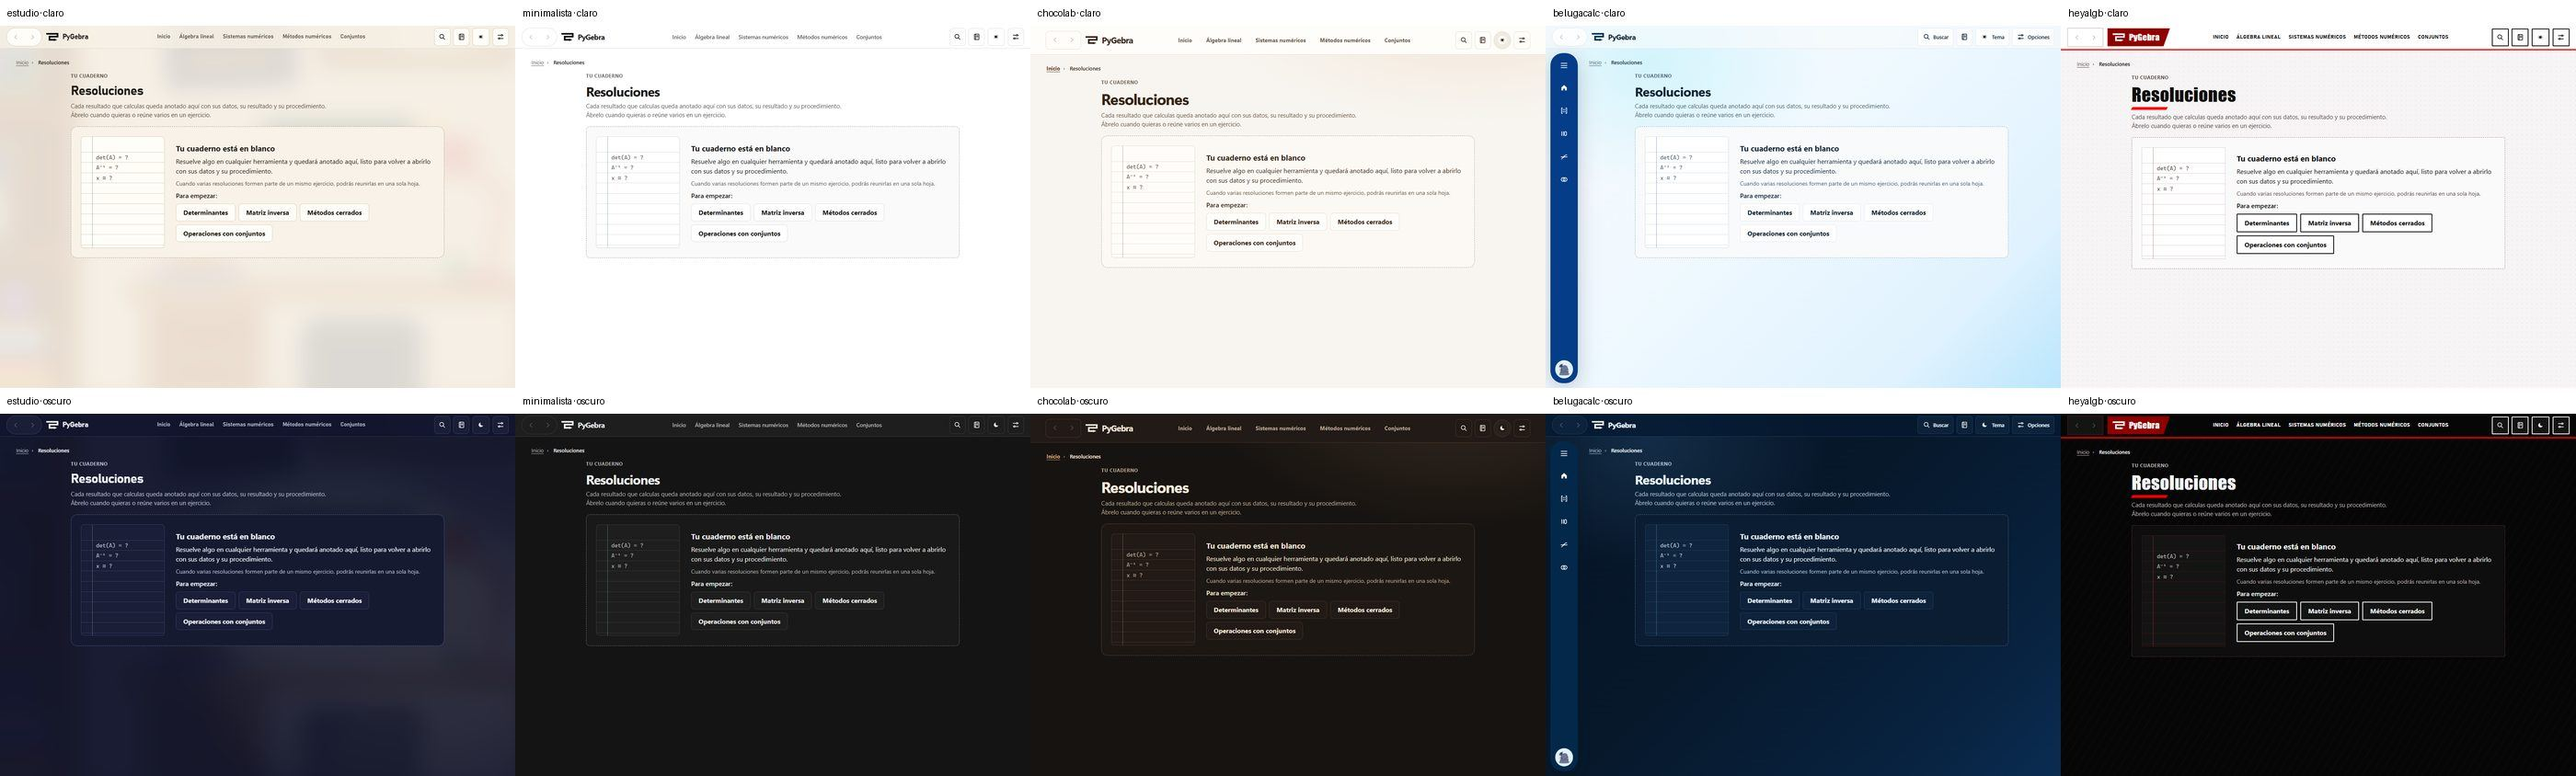
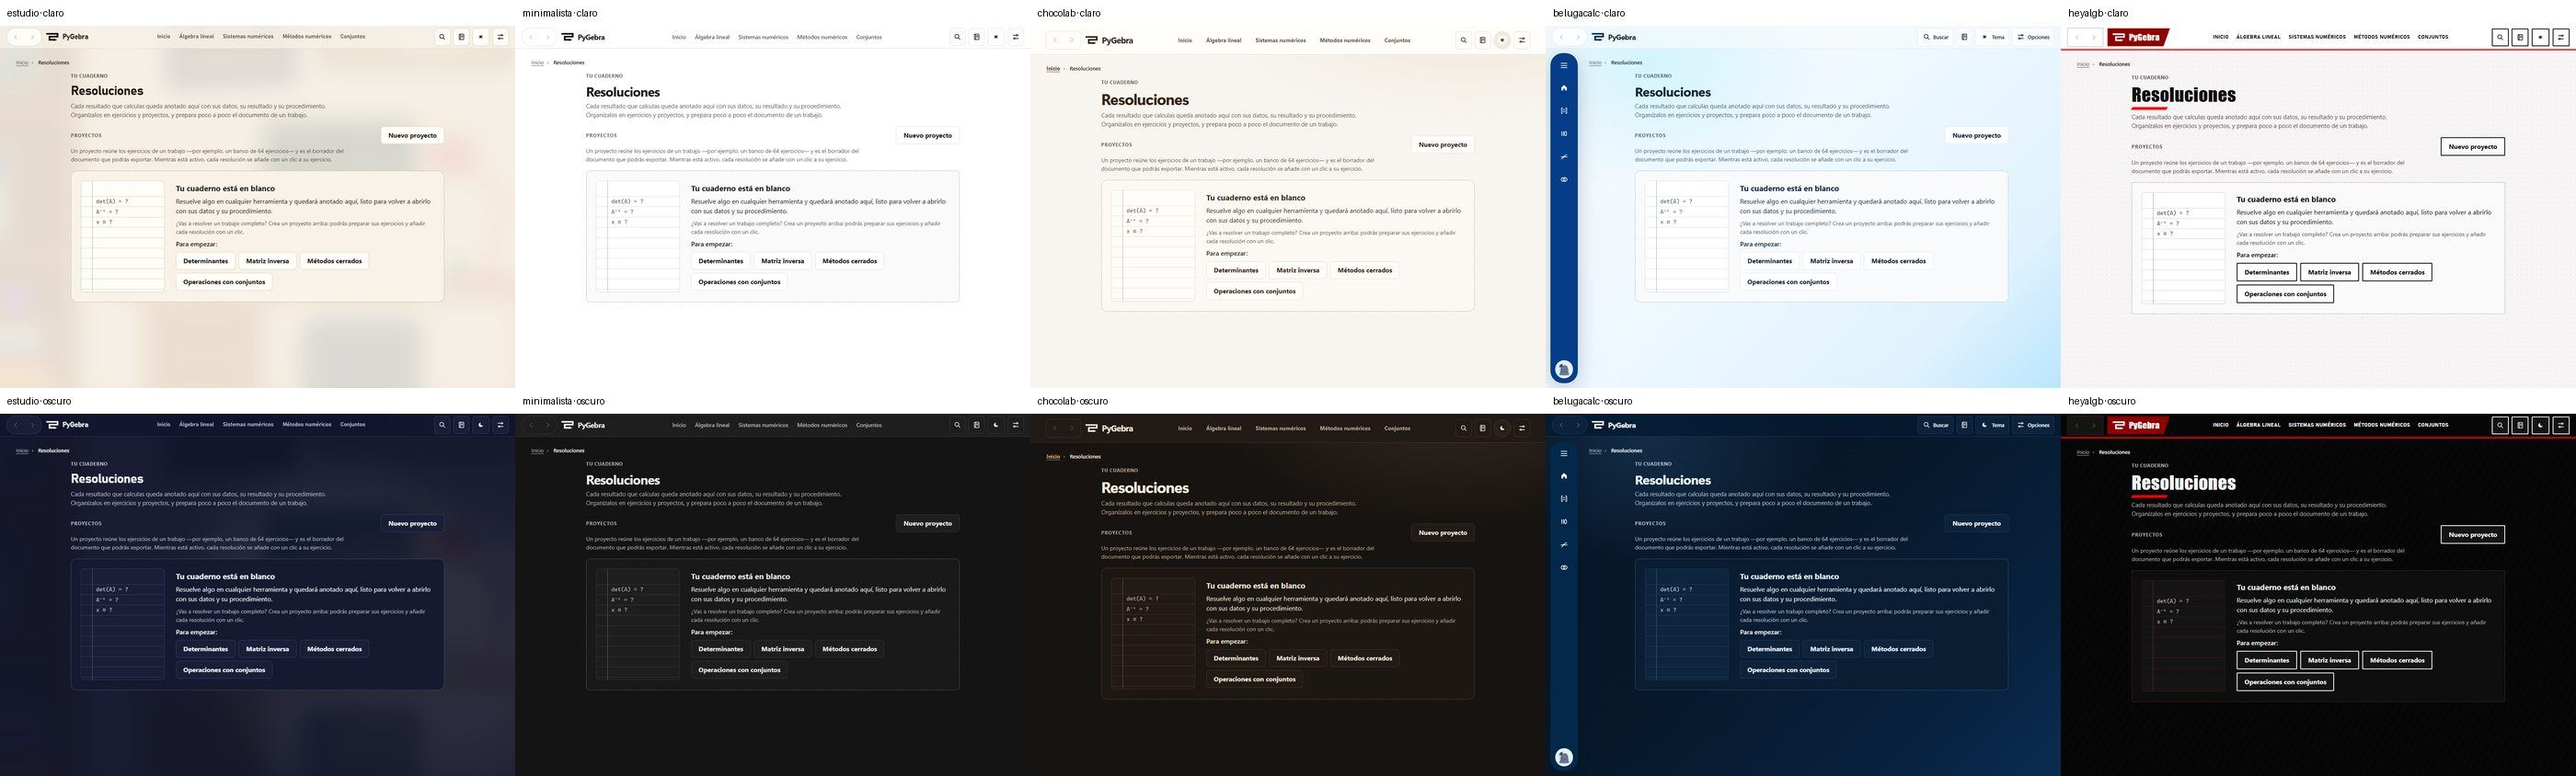
docs: documentar proyectos, migración y borrador del documento

diff --git a/docs/resoluciones.md b/docs/resoluciones.md
@@ -3,12 +3,12 @@
 [Índice de documentación](README.md) · [Arquitectura](arquitectura.md)
 
 Cada resolución válida de la interfaz visual se anota sola en un cuaderno local. Desde
-**Resoluciones** (cabecera) se consulta, se busca por nombre, resultado o ejercicio,
-se filtra por herramienta y fecha, se renombra, se elimina y se reúne en ejercicios.
-Abrir una resolución lleva a su herramienta con los datos, el resultado y el
-procedimiento originales, sin volver a calcular.
+**Resoluciones** (cabecera) se consulta, se busca por nombre, resultado, ejercicio o
+proyecto, se filtra por herramienta y fecha, se renombra, se elimina y se organiza en
+**Proyecto → Ejercicio → Resoluciones**. Abrir una resolución lleva a su herramienta con
+los datos, el resultado y el procedimiento originales, sin volver a calcular.
 
-![El cuaderno en Estudio, claro](capturas/resoluciones/cuaderno-estudio.jpg)
+![Un proyecto de 64 ejercicios en Estudio](capturas/resoluciones/proyecto-estudio.jpg)
 
 ## Uso
 
@@ -16,12 +16,13 @@ procedimiento originales, sin volver a calcular.
   resolución («Matriz inversa · 2×2») y permite añadirla a un ejercicio.
 - **Sin duplicados.** Recargar, volver atrás o calcular lo mismo otra vez no crea una
   segunda resolución: el aviso dice «Ya estaba en tu cuaderno».
-- **Ejercicios.** Un ejercicio es una hoja con pasos numerados (por ejemplo, un
-  determinante, la inversa y su comprobación). Cada resolución conserva su resultado.
-  Las que no pertenecen a ninguno quedan en **Sueltas**, agrupadas por día.
-- **Selección.** Las casillas, «marcar el ejercicio o el día» y la barra *Reunir en ·
-  Sacar del ejercicio · Eliminar…* trabajan sobre la misma selección, que usará la
-  exportación a PDF. Eliminar siempre pide confirmación.
+- **Ejercicios.** Un ejercicio reúne resoluciones (por ejemplo, un determinante, la
+  inversa y su comprobación); cada una conserva su resultado. Puede tener número, título
+  y enunciado, pertenecer a un proyecto o ser independiente. Las resoluciones que no
+  pertenecen a ninguno quedan en **Sueltas**, agrupadas por día.
+- **Selección.** Las casillas, «marcar el ejercicio o el día» y la barra *Llevar a ·
+  Sacar del ejercicio · Eliminar…* trabajan sobre la misma selección. Eliminar siempre
+  pide confirmación.
 - **Reabrir.** Si cambias los datos de una resolución reabierta y calculas, se anota
   una resolución nueva; la original no se sobrescribe.
 - Todo funciona sin JavaScript; `resoluciones.js` añade el recuento, marcar un grupo
@@ -32,6 +33,39 @@ procedimiento originales, sin volver a calcular.
   ya hacía HeyAlgb, cuyas pestañas se compactan en ese tramo. Con fuentes más anchas que
   Segoe UI (Linux, zoom) las áreas o la marca quedaban debajo de los botones; el runner
   `resoluciones` lo comprueba de 481 a 1600 px en los cinco estilos.
+
+## Proyectos
+
+Un proyecto es un trabajo que se construye poco a poco (por ejemplo, un banco de 64
+ejercicios) y el borrador persistente de su documento.
+
+- **Crear y preparar.** *Nuevo proyecto* (nombre y ejercicios previstos) lo crea y lo deja
+  activo. *Preparar varios* crea ejercicios numerados de una vez (del 1 al 64, sin repetir
+  números) y *Nuevo ejercicio* uno con número, título, enunciado y sección. Los ejercicios
+  pueden existir antes de tener resoluciones.
+- **Proyecto activo.** Junto a las migas de cualquier página, un indicador discreto dice
+  en qué proyecto y ejercicio se trabaja; desde él se cambia de ejercicio, se crea uno
+  nuevo o se deja el proyecto. Tras calcular, el aviso ofrece **Añadir a Ej. N** (un clic)
+  u **Otro ejercicio**. *Trabajar aquí* (icono de diana) activa un ejercicio desde el
+  proyecto. El estado activo se guarda en el cuaderno, no en el navegador: sobrevive al
+  cierre de la app.
+- **Orden.** Flechas para subir o bajar ejercicios, secciones y resoluciones; *Ordenar por
+  número* aplica un orden natural (2 < 10, 3a < 3b, 4.1 < 4.10). Las secciones son
+  opcionales y agrupan ejercicios dentro del proyecto.
+- **Mover y quitar sin perder nada.** *Editar → Ubicación* lleva un ejercicio a otra
+  sección, a otro proyecto o fuera de todos (independiente). Quitar una sección deja sus
+  ejercicios en el proyecto; eliminar un proyecto deja sus ejercicios como independientes,
+  con sus resoluciones; *Desagrupar* deja las resoluciones sueltas.
+- **Borrador del documento.** Cada sección, ejercicio y resolución tiene su interruptor
+  *En el documento*: lo habitual (dentro) es un icono discreto y lo excepcional (fuera) se
+  lee entero. El panel *Borrador del documento* cuenta lo que entraría y muestra el
+  índice. Excluir nunca borra.
+- **Orientarse en proyectos largos.** La barra de progreso cuenta los ejercicios con
+  resolución sobre el objetivo; el **mapa** dibuja una casilla por ejercicio en el orden
+  del documento (rellena = con resolución, punteada = por preparar, atenuada = fuera del
+  documento) y enlaza a cada uno. Las vistas *Todos · Pendientes · Con resolución*
+  filtran la lista. Cada sección es una sola hoja con un renglón por ejercicio y su
+  respuesta principal; las resoluciones se despliegan (abiertas en el ejercicio activo).
 
 ## Dónde se guarda
 
@@ -60,13 +94,34 @@ GET herramienta?resolucion=<id>
 | Módulo (`frontend/web/calculadora/resoluciones/`) | Responsabilidad |
 | --- | --- |
 | `contrato.py` | Documento versionado, codificación exacta, huella y validación al leer. |
-| `almacen.py` | SQLite (biblioteca estándar): tablas, transacciones, límites y recuperación. |
+| `almacen.py` | SQLite (biblioteca estándar): tablas, migraciones, orden, selección, límites y recuperación. |
+| `organizacion.py` | Proyectos listos para mostrar o exportar: árbol, progreso, mapa, borrador y proyecto activo. |
 | `registro.py` | Un `Adaptador` por herramienta: qué guardar y cómo reabrir. |
 | `servicio.py` | Guardar un contexto válido y prepararlo para reabrir. |
 | `middleware.py` | Enlaza lo anterior con las vistas sin modificarlas. |
 
 Ninguna vista, motor ni formulario de herramienta cambió. La plantilla común
-`layouts/herramienta.html` incluye `components/resolucion_aviso.html`.
+`layouts/herramienta.html` incluye `components/resolucion_aviso.html`; `base.html`
+incluye `components/proyecto_activo.html` junto a las migas (context processor
+`proyecto_activo`, una sola consulta por página).
+
+### Base de datos (versión 2)
+
+```text
+proyectos(id, nombre, objetivo, creado)
+secciones(id, proyecto → proyectos ON DELETE CASCADE, titulo, posicion, incluir)
+ejercicios(id, nombre, numero, enunciado, proyecto → SET NULL, seccion → SET NULL, posicion, incluir, creado)
+resoluciones(id, huella UNIQUE, ruta, herramienta, nombre, ejercicio → SET NULL, posicion, incluir, creado, usado, documento)
+ajustes(clave, valor)        -- activo_proyecto, activo_ejercicio
+```
+
+Las migraciones (`almacen.MIGRACIONES`) se aplican en orden, cada una en su
+transacción (`BEGIN … PRAGMA user_version … COMMIT`): si una falla, el cuaderno queda
+en su versión anterior, intacto. Antes de migrar un cuaderno con datos se copia completo
+a `resoluciones.v<N>-respaldo.sqlite3` (API de respaldo de SQLite). La v2 solo añade
+tablas y columnas; las resoluciones y ejercicios v1 quedan independientes, en su orden.
+El contrato de los documentos no cambia (sigue en v1): la organización vive en las
+tablas, no dentro de cada resolución.
 
 ## Contrato `pygebra.resolucion` v1
 
@@ -130,41 +185,66 @@ idéntico al original.
 
 Si una herramienta cambia la forma de esas claves, sube su `esquema`.
 
-### Operaciones con matrices y expresiones múltiples
+### Operaciones con matrices (expresiones múltiples) e Independencia lineal
 
-Operaciones queda fuera hasta que se integre el PR de expresiones múltiples. Con su
-vista nueva (`resultados` por fila, `resultado` cuando hay una sola y `hay_resultados`):
+Ambas están registradas desde la integración de los PR #164 y #166, sin tocar sus
+vistas, formularios ni motores:
 
-1. Añadir `"operaciones-matrices": Adaptador(("resultados", "resultado", "hay_resultados"),
-   principal="hay_resultados", …)`.
-2. Si un lote con filas erróneas debe guardarse, sustituir `es_valida` por un predicado
-   que acepte errores por fila; hoy un formulario con errores no se guarda.
-3. Guardar en cada fila solo datos de presentación: el contrato rechaza objetos como
-   los nodos del AST (`NoCodificable`) y entonces la resolución no se anota.
-4. `formulario` por defecto reconstruye `ExpresionMatricialForm(datos)`; si su
-   constructor exige más argumentos, dar una fábrica propia.
-5. Añadir el caso a `CASOS` con dos o más expresiones.
+- **Operaciones**: guarda `resultados` (una fila por expresión con su resultado
+  estructurado o su error), `resultado` y `hay_resultados`. `errores_parciales=True`
+  permite anotar un lote con filas erróneas; `preparar` quita de cada fila el nodo del
+  AST, que no es un dato, y `formulario` repone al reabrir los errores de evaluación que
+  la vista añadió junto a cada campo. El nombre indica cuántas expresiones acompañan a la
+  primera («Operaciones · A + B (+2)»).
+- **Independencia lineal**: guarda su `resultado` de presentación (planteamiento,
+  matrices, pasos, rango, relación de dependencia). La clave `resolucion` de su contexto
+  es del backend; por eso el aviso del cuaderno usa `resolucion_cuaderno`.
+
+Sus casos en `CASOS` (con un error parcial en Operaciones) exigen el mismo HTML al reabrir.
 
 ## Exportación a PDF (futura)
 
-El PDF debe leer los documentos con `almacen().obtener(id)` y `contrato.leer`/`decodificar`,
-y los ejercicios con `almacen().ejercicios()` y el orden de `creado`. Con `entrada`,
-`resultado`, `resumen` y `grafica` tiene la matemática exacta y las muestras de las
-gráficas, así que puede tener su propio diseño: no necesita capturas, ni el DOM, ni
-las plantillas visuales, ni recalcular. La selección del cuaderno (`ids`) es la que
-recibirá.
+Un proyecto ya es el borrador del documento. El exportador recorrerá
+`organizacion.arbol(proyecto, ejercicios, secciones, resoluciones, solo_incluidos=True)`
+(secciones → ejercicios con número, título y enunciado → resoluciones, en el orden y con
+la selección guardados) y leerá cada documento con `almacen().obtener(id)` y
+`contrato.leer`/`decodificar`. Con `entrada`, `resultado`, `resumen` y `grafica` tiene la
+matemática exacta y las muestras de las gráficas, así que podrá tener su propio diseño:
+no necesita capturas, ni el DOM, ni las plantillas visuales, ni recalcular. Para un PDF
+fuera de proyectos, la selección del cuaderno (`ids`) sirve igual.
 
 ## Verificación
 
 - `tests/test_resoluciones.py`: contrato, almacén (persistencia, duplicados, límites,
-  fila y archivo dañados, bloqueo temporal, base futura), las 13 rutas registradas
-  guardadas una vez y reabiertas idénticas, sin recálculo, agrupar, buscar, filtrar,
-  renombrar, eliminar con confirmación y consola.
+  fila y archivo dañados, bloqueo temporal, base futura), migración v1 → v2 (datos y
+  respaldo) y migración fallida sin efectos, las 15 rutas registradas guardadas una vez y
+  reabiertas idénticas (con errores parciales de expresiones múltiples), sin recálculo,
+  proyectos (crear y activar, preparar 1–64, numeración y orden natural, secciones,
+  mover entre proyectos, eliminar sin perder resoluciones), proyecto activo y añadir con
+  un clic, borrador persistente tras reiniciar, resoluciones de todos los módulos en un
+  proyecto, un proyecto de 64 ejercicios en menos de 3 s, `volver` solo a rutas locales,
+  buscar, filtrar, renombrar, eliminar con confirmación y consola.
 - `tests/resoluciones_browser.py`/`.js` (en la selección de CI): aviso, agrupar desde la
   herramienta, reabrir, selección, renombrar con Enter, eliminar, flujo sin JavaScript,
-  los cinco estilos en claro y oscuro y móvil.
+  proyecto completo (crear, preparar, trabajar aquí, calcular, añadir con un clic,
+  cambiar de ejercicio desde el indicador), excluir y reordenar, los cinco estilos en
+  claro y oscuro con proyecto activo, cabecera de 481 a 1600 px y móvil.
 - WebView2 real (`desktop.py`, CDP): calcular, agrupar, cerrar la app, reabrirla,
-  recuperar la resolución y recalcular sin duplicar.
+  recuperar la resolución y recalcular sin duplicar; y con proyectos: crear, preparar,
+  trabajar en un ejercicio, añadir, excluir y reordenar, reiniciar y encontrar el
+  proyecto activo, el orden, la exclusión y la resolución intactos.
+
+![Proyecto en los cinco estilos, claro y oscuro](capturas/resoluciones/estilos-proyecto.jpg)
+
+![Renglones de ejercicios en los cinco estilos](capturas/resoluciones/estilos-hojas.jpg)
+
+![Aviso con «Añadir a Ej. 44» tras calcular](capturas/resoluciones/aviso-anadir.jpg)
+
+![Indicador del proyecto activo abierto](capturas/resoluciones/indicador-activo.jpg)
+
+![Proyecto a 390 px](capturas/resoluciones/proyecto-movil.jpg)
+
+![Proyecto en WebView2 tras reiniciar la app](capturas/resoluciones/webview2-proyecto.jpg)
 
 ![Cuaderno en los cinco estilos, claro y oscuro](capturas/resoluciones/estilos-cuaderno.jpg)
 
@@ -178,12 +258,13 @@ recibirá.
 
 ## Limitaciones conocidas
 
-- Operaciones con matrices todavía no se anota (ver arriba).
 - Si el contexto de una herramienta trae un objeto que no es dato, la resolución no se
-  anota y el aviso lo dice; las 13 rutas registradas están cubiertas por las pruebas.
+  anota y el aviso lo dice; las 15 rutas registradas están cubiertas por las pruebas.
+- Reordenar es con flechas (y *Ordenar por número*), sin arrastrar. Un solo proyecto
+  activo a la vez.
+- *Preparar varios* crea hasta 200 ejercicios de una vez.
 - Las muestras de la gráfica de raíces son las del encuadre inicial. Acercar o mover la
   gráfica vuelve a muestrear la función guardada: es exploración, no el resultado.
-- Los pasos de un ejercicio siguen el orden en que se calcularon; no se reordenan a mano.
 - «Comparar ambos» de Reducción por filas es una sola resolución con los dos métodos.
 - La búsqueda filtra los metadatos en Python: sencilla y suficiente con el límite de
   256 MB; si el cuaderno creciera mucho, convendría un índice en SQLite.

diff --git a/docs/README.md b/docs/README.md
@@ -12,7 +12,7 @@
 - [Actualizaciones de escritorio](instalacion-windows.md#actualizar-pygebra) y
   [verificación de descargas](releases.md#verificar-una-descarga).
 - [Opciones de la interfaz visual](interfaz.md#opciones) y [galería de temas](temas-homenaje.md).
-- [Cuaderno de resoluciones](resoluciones.md): guardar, reabrir y agrupar en ejercicios.
+- [Cuaderno de resoluciones](resoluciones.md): guardar, reabrir y organizar en ejercicios y proyectos.
 - Edición de datos en la interfaz visual: [menú de entradas](edicion-entradas.md),
   [selección](seleccion-matricial.md), [copiado](copiado-matricial.md),
   [pegado](pegado-matricial.md) y [deshacer el último pegado](deshacer-pegado.md).
